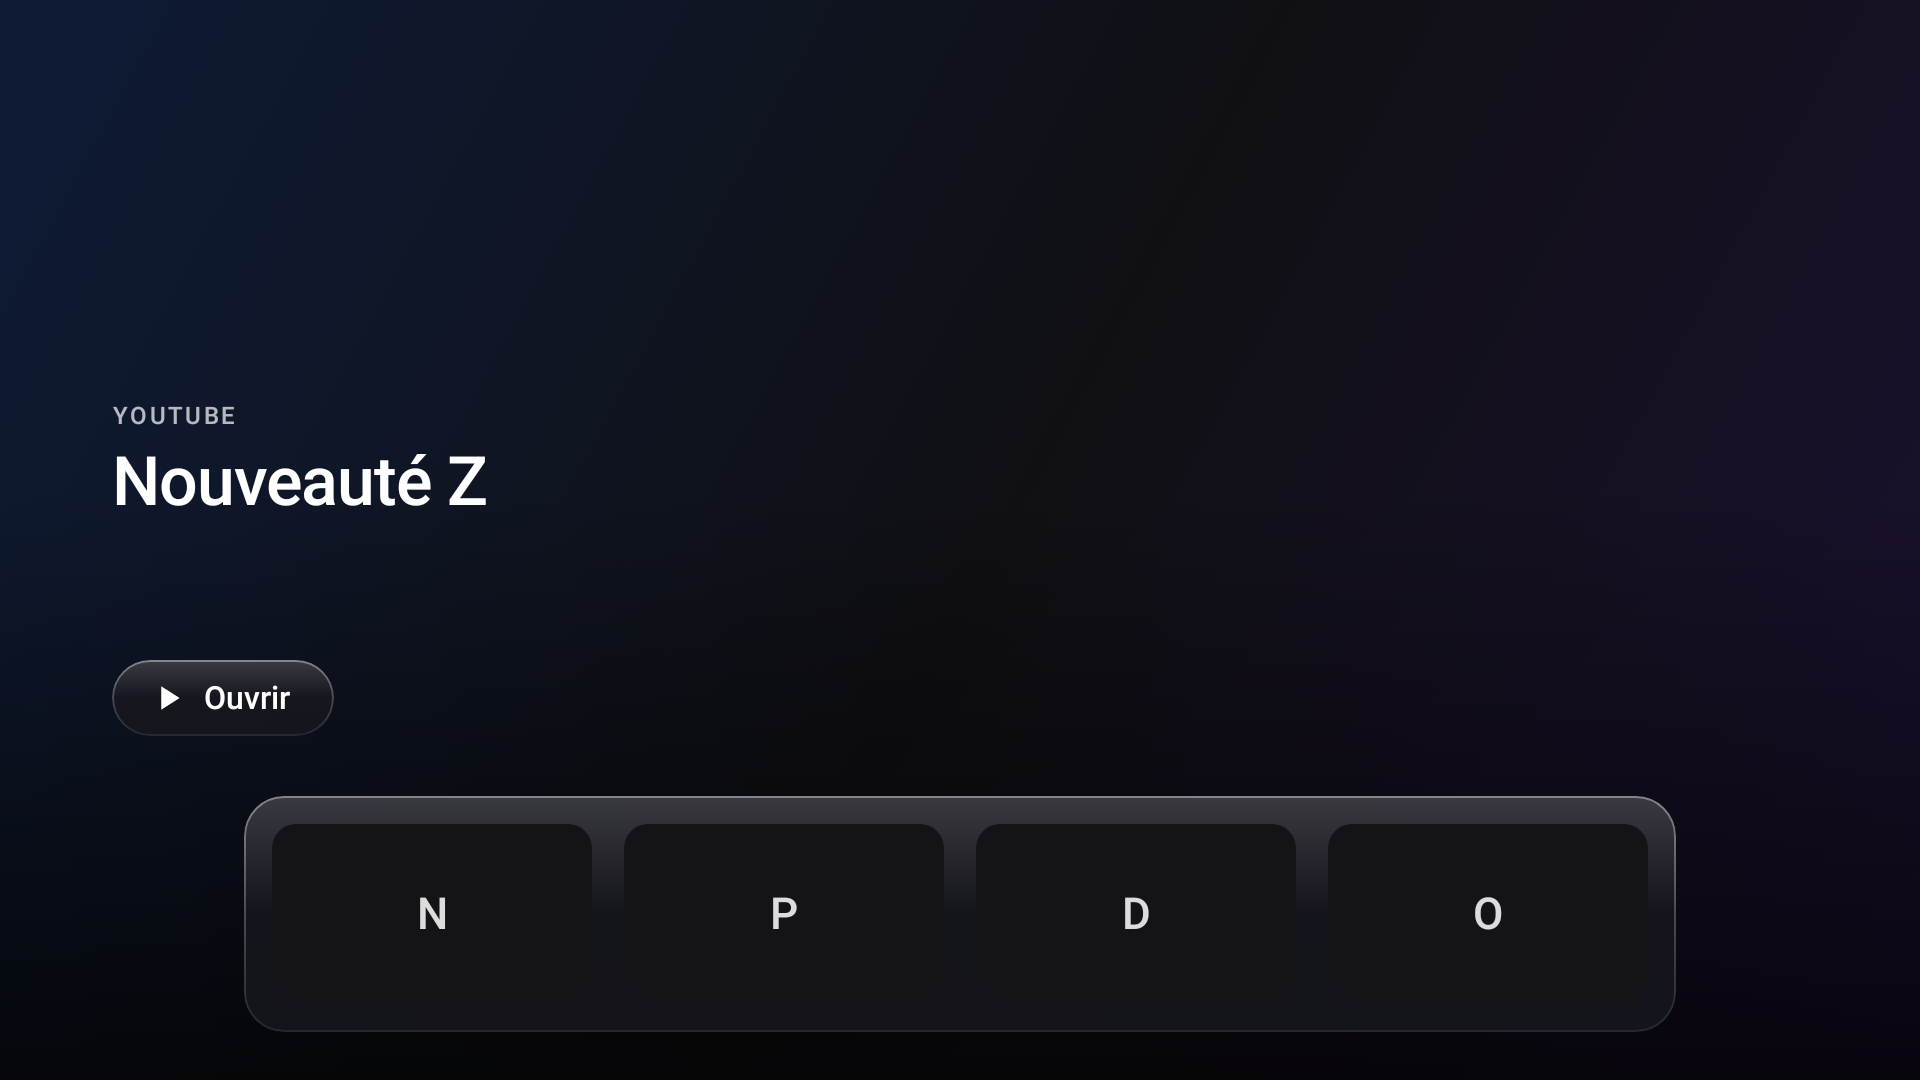
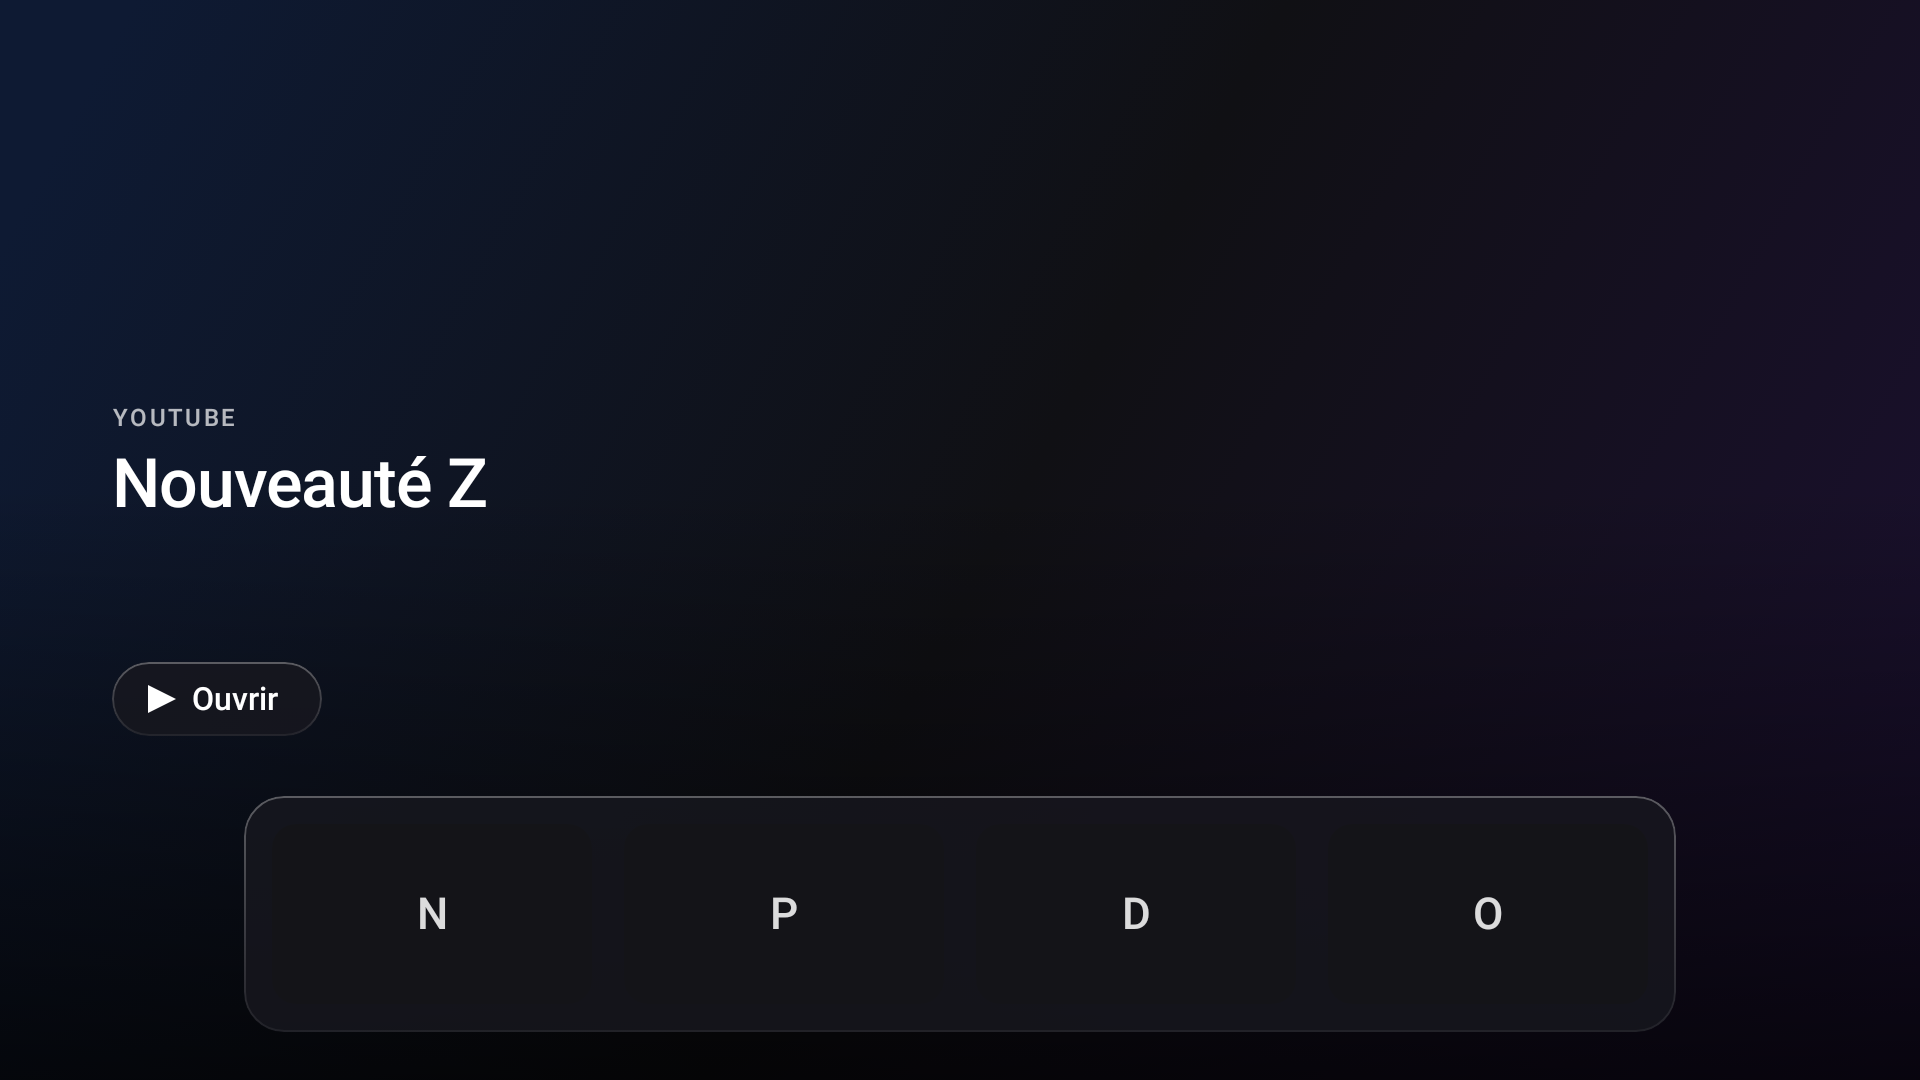
build: upgrade toolchain to Kotlin 2.4, Compose 1.12, AGP 9 and switch to Haze 2 glass

diff --git a/app/src/main/java/fr/sygix/sygixos/core/designsystem/GlassSurface.kt b/app/src/main/java/fr/sygix/sygixos/core/designsystem/GlassSurface.kt
@@ -1,11 +1,5 @@
 package fr.sygix.sygixos.core.designsystem
 
-import androidx.compose.animation.core.LinearEasing
-import androidx.compose.animation.core.RepeatMode
-import androidx.compose.animation.core.animateFloat
-import androidx.compose.animation.core.infiniteRepeatable
-import androidx.compose.animation.core.rememberInfiniteTransition
-import androidx.compose.animation.core.tween
 import androidx.compose.foundation.background
 import androidx.compose.foundation.border
 import androidx.compose.foundation.layout.Box
@@ -15,87 +9,63 @@ import androidx.compose.runtime.Composable
 import androidx.compose.runtime.staticCompositionLocalOf
 import androidx.compose.ui.Modifier
 import androidx.compose.ui.draw.clip
-import androidx.compose.ui.draw.drawWithContent
-import androidx.compose.ui.draw.shadow
-import androidx.compose.ui.geometry.Offset
 import androidx.compose.ui.graphics.Brush
 import androidx.compose.ui.graphics.Color
-import androidx.compose.ui.graphics.Shape
 import androidx.compose.ui.unit.dp
-import dev.chrisbanes.haze.HazeInputScale
+import dev.chrisbanes.haze.ExperimentalHazeApi
+import dev.chrisbanes.haze.HazeInput
 import dev.chrisbanes.haze.HazeState
-import dev.chrisbanes.haze.HazeTint
-import dev.chrisbanes.haze.hazeEffect
+import dev.chrisbanes.haze.glass.GlassStyle
+import dev.chrisbanes.haze.glass.hazeGlass
 
-/** État Haze partagé : les couches de fond s'y enregistrent, les surfaces verre le floutent. Null = repli translucide sans flou. */
+/** État Haze partagé : les couches de fond s'y enregistrent, les surfaces verre les réfractent. Null = repli translucide. */
 val LocalHazeState = staticCompositionLocalOf<HazeState?> { null }
 
 private val FallbackGlass = Color(0xCC17171E)
 private val GlassBackdrop = Color(0xFF0B0B10)
 
 /**
- * Liquid Glass : flou d'arrière-plan réel (RenderEffect), teinte claire, grain,
- * liseré spéculaire et reflet lent qui balaie la surface.
+ * Liquid Glass : matériau verre de Haze 2 (réfraction des bords, reflet spéculaire,
+ * légère aberration chromatique) au-dessus des couches enregistrées comme sources.
+ * Sans état Haze ou quand la surface est invisible, repli translucide sans flou.
  */
+@OptIn(ExperimentalHazeApi::class)
 @Composable
 fun GlassSurface(
     modifier: Modifier = Modifier,
-    shape: Shape = RoundedCornerShape(20.dp),
-    /** false quand la surface est invisible : ni flou ni reflet animé (économie GPU). */
+    shape: RoundedCornerShape = RoundedCornerShape(20.dp),
+    /** false quand la surface est invisible : ni verre ni animation (économie GPU). */
     active: Boolean = true,
     content: @Composable BoxScope.() -> Unit,
 ) {
     val haze = LocalHazeState.current
-    val sheen = if (active) {
-        rememberInfiniteTransition(label = "glassSheen").animateFloat(
-            initialValue = -0.6f,
-            targetValue = 1.6f,
-            animationSpec = infiniteRepeatable(tween(9_000, easing = LinearEasing), RepeatMode.Restart),
-            label = "glassSheenX",
-        ).value
-    } else {
-        -1f
-    }
-    Box(
-        modifier = modifier
-            .shadow(10.dp, shape, clip = false, ambientColor = Color.White.copy(alpha = 0.10f), spotColor = Color.White.copy(alpha = 0.18f))
-            .clip(shape)
-            .then(
-                if (haze != null && active) {
-                    Modifier.hazeEffect(state = haze) {
-                        backgroundColor = GlassBackdrop
-                        blurRadius = 28.dp
-                        noiseFactor = 0.04f
-                        tints = listOf(HazeTint(Color.White.copy(alpha = 0.12f)))
-                        fallbackTint = HazeTint(FallbackGlass)
-                        inputScale = HazeInputScale.Auto
-                    }
-                } else {
-                    Modifier.background(FallbackGlass)
+    if (haze != null && active) {
+        Box(
+            modifier = modifier.hazeGlass(
+                input = HazeInput.Sources(haze),
+                style = GlassStyle.regular.then {
+                    shape(shape)
+                    backgroundColor(GlassBackdrop)
+                    tint(Color.White.copy(alpha = 0.08f))
+                    specularIntensity(0.7f)
+                    edgeSoftness(2.dp)
+                    chromaticAberrationStrength(0.06f)
+                    alpha(0.96f)
                 },
-            )
-            .drawWithContent {
-                drawRect(
-                    Brush.verticalGradient(
-                        listOf(Color.White.copy(alpha = 0.16f), Color.Transparent),
-                        endY = size.height * 0.5f,
-                    ),
-                )
-                val x = sheen * size.width
-                drawRect(
-                    Brush.linearGradient(
-                        colors = listOf(Color.Transparent, Color.White.copy(alpha = 0.09f), Color.Transparent),
-                        start = Offset(x - size.height, 0f),
-                        end = Offset(x + size.height, size.height),
-                    ),
-                )
-                drawContent()
-            }
-            .border(
-                1.dp,
-                Brush.verticalGradient(listOf(Color.White.copy(alpha = 0.38f), Color.White.copy(alpha = 0.08f))),
-                shape,
             ),
-        content = content,
-    )
+            content = content,
+        )
+    } else {
+        Box(
+            modifier = modifier
+                .clip(shape)
+                .background(FallbackGlass)
+                .border(
+                    1.dp,
+                    Brush.verticalGradient(listOf(Color.White.copy(alpha = 0.30f), Color.White.copy(alpha = 0.06f))),
+                    shape,
+                ),
+            content = content,
+        )
+    }
 }

diff --git a/app/src/main/java/fr/sygix/sygixos/ui/hero/HeroStage.kt b/app/src/main/java/fr/sygix/sygixos/ui/hero/HeroStage.kt
@@ -23,9 +23,7 @@ import androidx.compose.foundation.layout.size
 import androidx.compose.foundation.layout.width
 import androidx.compose.foundation.layout.widthIn
 import androidx.compose.foundation.shape.RoundedCornerShape
-import androidx.compose.material.icons.Icons
-import androidx.compose.material.icons.filled.PlayArrow
-import androidx.compose.material3.Icon
+import androidx.compose.foundation.Canvas
 import androidx.compose.material3.MaterialTheme
 import androidx.compose.material3.Text
 import androidx.compose.runtime.Composable
@@ -47,6 +45,7 @@ import androidx.compose.ui.focus.focusRequester
 import androidx.compose.ui.focus.onFocusChanged
 import androidx.compose.ui.graphics.Brush
 import androidx.compose.ui.graphics.Color
+import androidx.compose.ui.graphics.Path
 import androidx.compose.ui.graphics.graphicsLayer
 import androidx.compose.ui.input.key.Key
 import androidx.compose.ui.input.key.KeyEventType
@@ -361,7 +360,7 @@ private fun HeroOpenButton(label: String, focusRequester: FocusRequester, enable
             Modifier.padding(start = 18.dp, end = 22.dp, top = 9.dp, bottom = 9.dp),
             verticalAlignment = Alignment.CenterVertically,
         ) {
-            Icon(Icons.Filled.PlayArrow, contentDescription = null, tint = content, modifier = Modifier.size(20.dp))
+                PlayGlyph(content)
             Spacer(Modifier.width(8.dp))
             Text(label, style = MaterialTheme.typography.titleMedium, color = content)
         }
@@ -370,5 +369,19 @@ private fun HeroOpenButton(label: String, focusRequester: FocusRequester, enable
         Box(focusModifier.clip(pill).background(Color.White)) { labelRow() }
     } else {
         GlassSurface(modifier = focusModifier, shape = pill) { labelRow() }
+    }
+}
+
+/** Triangle de lecture dessiné à la main : les icônes Material ne sont plus fournies avec Material 3. */
+@Composable
+private fun PlayGlyph(color: Color) {
+    Canvas(Modifier.size(14.dp)) {
+        val path = Path().apply {
+            moveTo(0f, 0f)
+            lineTo(size.width, size.height / 2f)
+            lineTo(0f, size.height)
+            close()
+        }
+        drawPath(path, color)
     }
 }

diff --git a/app/src/main/java/fr/sygix/sygixos/ui/home/AppContextMenu.kt b/app/src/main/java/fr/sygix/sygixos/ui/home/AppContextMenu.kt
@@ -57,7 +57,7 @@ internal fun AppContextMenu(
             .background(Color.Black.copy(alpha = 0.55f)),
         contentAlignment = Alignment.Center,
     ) {
-        GlassSurface(Modifier.width(420.dp)) {
+        GlassSurface(Modifier.width(520.dp)) {
             Column(Modifier.padding(horizontal = 28.dp, vertical = 24.dp)) {
                 Text(app.label, style = MaterialTheme.typography.titleLarge, color = Color.White)
                 Spacer(Modifier.height(4.dp))
@@ -89,6 +89,12 @@ private fun MenuButton(text: String, onClick: () -> Unit, focusRequester: FocusR
             .tvClickable(onClick = onClick)
             .padding(horizontal = 18.dp, vertical = 10.dp),
     ) {
-        Text(text, style = MaterialTheme.typography.titleMedium, color = if (focused) Color(0xFF15151A) else Color.White)
+        Text(
+            text,
+            style = MaterialTheme.typography.titleMedium,
+            color = if (focused) Color(0xFF15151A) else Color.White,
+            maxLines = 1,
+            softWrap = false,
+        )
     }
 }

diff --git a/app/src/main/java/fr/sygix/sygixos/ui/home/HomeScreen.kt b/app/src/main/java/fr/sygix/sygixos/ui/home/HomeScreen.kt
@@ -32,7 +32,7 @@ import androidx.compose.ui.input.key.type
 import androidx.compose.ui.platform.LocalContext
 import androidx.compose.ui.zIndex
 import androidx.lifecycle.compose.collectAsStateWithLifecycle
-import dev.chrisbanes.haze.HazeState
+import dev.chrisbanes.haze.rememberHazeState
 import dev.chrisbanes.haze.hazeSource
 import fr.sygix.sygixos.core.designsystem.AppleEasing
 import fr.sygix.sygixos.core.designsystem.Dimens
@@ -89,7 +89,7 @@ internal fun LauncherHome(
     var zone by rememberSaveable { mutableStateOf(initialZone) }
     var movingApp by remember { mutableStateOf<String?>(null) }
     var orderBeforeMove by remember { mutableStateOf<List<String>>(emptyList()) }
-    val haze = remember { HazeState() }
+    val haze = rememberHazeState()
     var gridRow by remember { mutableIntStateOf(0) }
     var menuApp by remember { mutableStateOf<TvApp?>(null) }
     val heroFocus = remember { FocusRequester() }

diff --git a/openspec/changes/toolchain-glass/proposal.md b/openspec/changes/toolchain-glass/proposal.md
@@ -1,0 +1,17 @@
+# Change : toolchain-glass
+
+Montée de version de la chaîne de build (Kotlin, Compose, AGP, Gradle, compileSdk) pour passer à Haze 2 et son vrai verre : réfraction, spéculaire, aberration chromatique.
+
+## Why
+Le Liquid Glass actuel (Haze 1.3.1) se limite à un flou d'arrière-plan teinté : pas de réfraction des bords, pas de reflet spéculaire réel. Haze 2 (`haze-glass`, `Modifier.hazeGlass` + `GlassStyle`) apporte le matériau complet façon visionOS/tvOS 26, mais exige Kotlin 2.4 et Compose 1.12, donc une montée de la chaîne complète. Sygix a validé la montée de version, la cible restant Android 14+.
+
+## What Changes
+- Kotlin 2.4.20, Compose BOM 2026.09.00 (Compose 1.12.x, Material3 1.4), AGP et Gradle alignés, `compileSdk`/`targetSdk` relevés au niveau exigé par Compose 1.12 ; `minSdk` inchangé (34, Android 14+)
+- `kotlinOptions` remplacé par `compilerOptions` (DSL courant), dépendances de test (Robolectric, Roborazzi, androidx.test) alignées
+- `GlassSurface` passe à `Modifier.hazeGlass` + `GlassStyle` : réfraction des bords, reflet spéculaire, teinte et flou du style `regular` ajustés pour le dock, le bouton du héro et le menu contextuel ; repli translucide inchangé si l'effet est indisponible
+- Repli automatique : si l'appareil ne supporte pas l'effet, la surface reste translucide sans flou (comportement actuel)
+
+## Impact
+- specs affectées : launcher-shell (MODIFIED « Thème » : le Liquid Glass devient un vrai matériau verre)
+- build : Gradle wrapper, AGP, Kotlin, Compose BOM, compileSdk ; conteneur de build à compléter (plateforme et build-tools de la nouvelle cible)
+- risque : dépendance `haze-glass` marquée expérimentale par son auteur ; en cas de régression visuelle ou de performance sur la TCL, retour à `hazeBlur` sans toucher au reste de la montée de version

diff --git a/README.md b/README.md
@@ -50,6 +50,7 @@ docker exec sygixos-build ./gradlew assembleDebug test
 docker exec sygixos-build ./gradlew testDebugUnitTest -Proborazzi.test.record=true   # captures
 docker exec sygixos-build ./gradlew assembleRelease   # build à tester sur la TV
 ```
+Le conteneur doit disposer d'environ 4 Go : avant une session de build, `./gradlew --stop` évite que des démons Gradle résiduels fassent tuer le build par le noyau.
 La signature release vient de l'environnement (`SYGIXOS_STORE_FILE`, `SYGIXOS_STORE_PASSWORD`, `SYGIXOS_KEY_ALIAS`, `SYGIXOS_KEY_PASSWORD`) ; sans ces variables, la clé de debug est utilisée.
 
 ## Structure
@@ -60,4 +61,4 @@ docs/screenshots/   captures Roborazzi (canevas TV 960x540 dp)
 ```
 
 ## Stack
-Kotlin · Jetpack Compose · media3 (ExoPlayer) · Coil · DataStore · tests JUnit/Robolectric · screenshots Roborazzi
+Kotlin 2.4 · Jetpack Compose (BOM 2026.09) · Haze 2 (Liquid Glass) · media3 (ExoPlayer) · Coil · DataStore · tests JUnit/Robolectric · screenshots Roborazzi

diff --git a/openspec/changes/toolchain-glass/specs/launcher-shell/spec.md b/openspec/changes/toolchain-glass/specs/launcher-shell/spec.md
@@ -1,0 +1,17 @@
+# Delta launcher-shell
+
+## MODIFIED Requirements
+
+### Requirement: Thème
+L'UI SHALL être sombre (v1) avec des surfaces Liquid Glass : matériau verre réfractant (réfraction des bords, reflet spéculaire, teinte claire), sur fond noir pur.
+
+- Sombre uniquement en v1, noir pur, posters plein cadre, police type Inter
+- Aucune ombre noire : le relief vient des halos clairs ou colorés
+
+#### Scenario: comportement
+- **WHEN** la capability est utilisée
+- **THEN** les exigences listées ci-dessus s'appliquent
+
+#### Scenario: surfaces verre
+- **WHEN** le dock, le bouton d'ouverture du héro ou le menu contextuel sont affichés
+- **THEN** ils utilisent le matériau verre (arrière-plan flouté et réfracté, reflet spéculaire sur les bords) ; si l'appareil ne supporte pas l'effet, la surface reste translucide sans flou, sans crash

diff --git a/openspec/changes/toolchain-glass/tasks.md b/openspec/changes/toolchain-glass/tasks.md
@@ -1,0 +1,8 @@
+# Tasks : toolchain-glass
+
+- [x] 1. Change proposal + delta spec
+- [x] 2. Conteneur de build : plateforme et build-tools de la nouvelle cible installées
+- [x] 3. Gradle wrapper + AGP + Kotlin + Compose BOM + compileSdk relevés, `compilerOptions`, dépendances de test alignées ; `assembleRelease` et tests verts
+- [x] 4. Haze 2 : `GlassSurface` sur `hazeGlass` + `GlassStyle` (réfraction, spéculaire), dock / bouton héro / menu vérifiés
+- [x] 5. Test TV : rendu du verre, fluidité (aucune image sautée en release), pas de régression de navigation
+- [x] 6. README + spec synchronisés, screenshots régénérés
